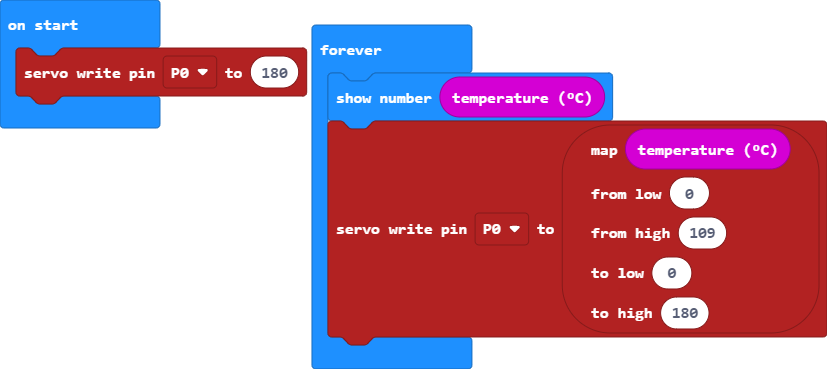
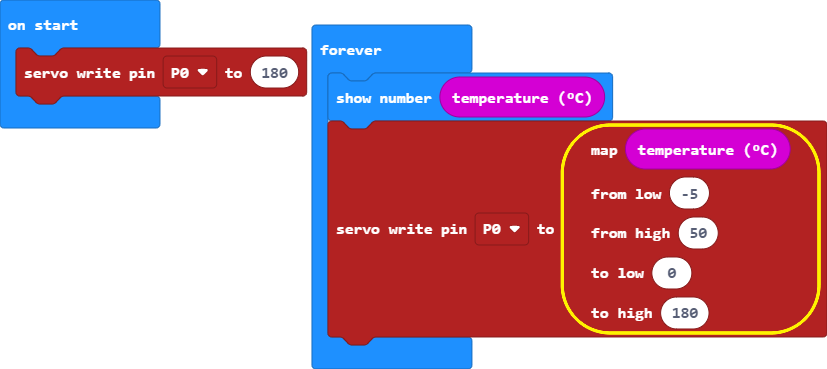
Update main.blocks, main.ts, Temperature.md

diff --git a/main.ts b/main.ts
@@ -3,8 +3,8 @@ basic.forever(function () {
     basic.showNumber(input.temperature())
     pins.servoWritePin(AnalogPin.P0, pins.map(
     input.temperature(),
-    0,
-    109,
+    -5,
+    50,
     0,
     180
     ))

diff --git a/Temperature.md b/Temperature.md
@@ -37,7 +37,7 @@ basic.forever(function () {
 ```
 ## From the **Pins** folder grab a **Mapping bubble** and place it into the **Servo Write Pin** in the forever block
 next, **duplicate** the **temperature** blubble and place it into the top line of the **mapping** block
-Make sure to **MAP** the temperature values from the sensor to the Servo values; enter **_0_** and **_109_** for themperature values and **_0_** and **_180_** for degrees into the **Mapping** bubble
+Make sure to **MAP** the temperature values from the sensor to the Servo values; enter **_-5_** and **_50_** for themperature values and **_0_** and **_180_** for degrees into the **Mapping** bubble
 
 ```blocks
 pins.servoWritePin(AnalogPin.P0, 180)
@@ -45,8 +45,8 @@ basic.forever(function () {
     basic.showNumber(input.temperature())
     pins.servoWritePin(AnalogPin.P0, pins.map(
     input.temperature(),
-    0,
-    109,
+    -5,
+    50,
     0,
     180
     ))
